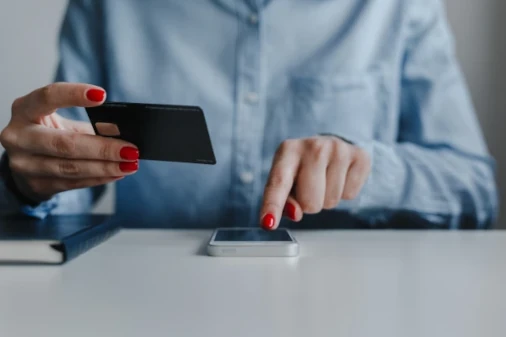
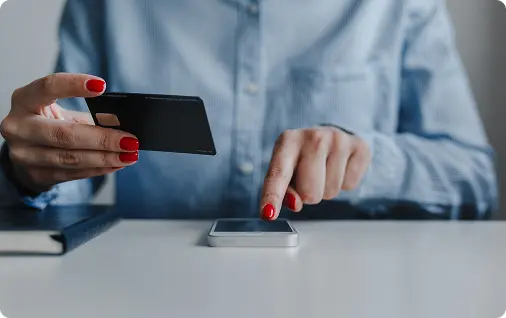
страница гарантии исправление вёрстки

diff --git a/src/styles/warranty.css b/src/styles/warranty.css
@@ -1,8 +1,8 @@
 .warranty {
     border-radius: 5px;
-    padding: 40px 40px 40px 40px;
     display: flex;
     gap: 20px;
+    align-items: center;
 }
 
 .container3 {
@@ -14,12 +14,14 @@
 .warranty-white {
     background-color: var(--white);
     justify-content: space-between;
+    padding: 45px 102px 40px 45px;
 }
 
 .warranty-black {
     background-color: transparent;
     flex-direction: row-reverse;
     justify-content: space-between;
+    padding: 40px 102px 40px 40px;
 }
 
 .warranty__content {
@@ -27,31 +29,35 @@
 }
 
 .warranty__content>p {
-    margin: 10px 0 10px 0;
+    margin-top: 25px;
 }
 
 .warranty__content>h3 {
-    max-width: 583px;
+    margin-top: -10px;
 }
 
 .warranty__style {
-    max-width: 390px;
+    max-width: 525px;
+}
+
+.warranty-h {
+    max-width: 452px;
 }
 
 .warranty__list {
-    margin-top: 20px;
+    margin-top: 25px;
     max-width: 714px;
     display: flex;
     flex-direction: column;
-    gap: 10px;
+    gap: 9px;
 }
 
 .warranty__list>div {
     background: var(--background);
-    padding: 10px;
+    padding: 10px 10px 10px 23px;
     border-radius: 5px;
     display: flex;
-    gap: 10px;
+    gap: 20px;
     align-items: center;
 }
 
@@ -60,14 +66,14 @@
     height: 37px;
 }
 
+
 .warranty__img {
     width: 506px;
     border-radius: 10px;
 }
 
-
 .warranty__logistic {
-    margin: 20px 0;
+    margin: 25px 0;
     background-image: url(./../images/warranty/warranty-bg.webp);
 }
 
@@ -79,11 +85,27 @@
     color: var(--white);
     max-width: 583px;
     font-weight: 500 !important;
+    line-height: 127% !important;
 }
-
 
 .footer-warranty {
     margin-top: 20px;
+}
+
+@media (max-width: 1280px) {
+    .warranty-white {
+        padding: 40px 40px 40px 40px;
+    }
+
+    .warranty-black {
+        padding: 40px 40px 40px 40px;
+    }
+
+    .warranty__list>div {
+        padding: 10px 10px 10px 10px;
+        gap: 10px;
+
+    }
 }
 
 @media (max-width: 1000px) {
@@ -133,6 +155,7 @@
     .logistic__style>p {
         color: var(--text-desc);
     }
+
 }
 
 @media (max-width: 425px) {

diff --git a/warranty.html b/warranty.html
@@ -270,7 +270,9 @@
     <div class="container">
       <div class="warranty warranty-white">
         <div class="warranty__content">
-          <h3 class="headline3">Официальная защита вашего оборудования</h3>
+          <h3 class="headline3 warranty-h">
+            Официальная защита вашего оборудования
+          </h3>
           <p class="content16 warranty__style">
             Будучи официальным дилером, LIMAUDIO предоставляет полностью "белую"
             технику с легальным сервисным покрытием.
